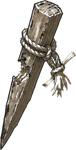
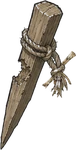
fix(iso): re-key fountain, castle wall and campfire gags and the farm rough from their raw paintings
Tighter key thresholds (30/80) so object colours near the background stop going semi-transparent; the farm rough also drops the magenta polygon and halo FLUX painted on a cream ground. Sprites, mask and fingerprint regenerated, no repaint.

diff --git a/components/village/iso/peints/farm.ts b/components/village/iso/peints/farm.ts
@@ -5,7 +5,7 @@ const masque_rough = {
   pas: 8,
   w: 112,
   h: 149,
[2 lines of base64/hex data omitted]
 };
 const masque_solid = {
   pas: 8,

diff --git a/components/village/iso/empreinteSprites.ts b/components/village/iso/empreinteSprites.ts
@@ -1,2 +1,2 @@
 // Generated by scripts/iso/empreinte-sprites.js, do not edit.
-export const EMPREINTE_SPRITES = "8d3825571760d5f0";
+export const EMPREINTE_SPRITES = "5f4400aa304ea0e0";
